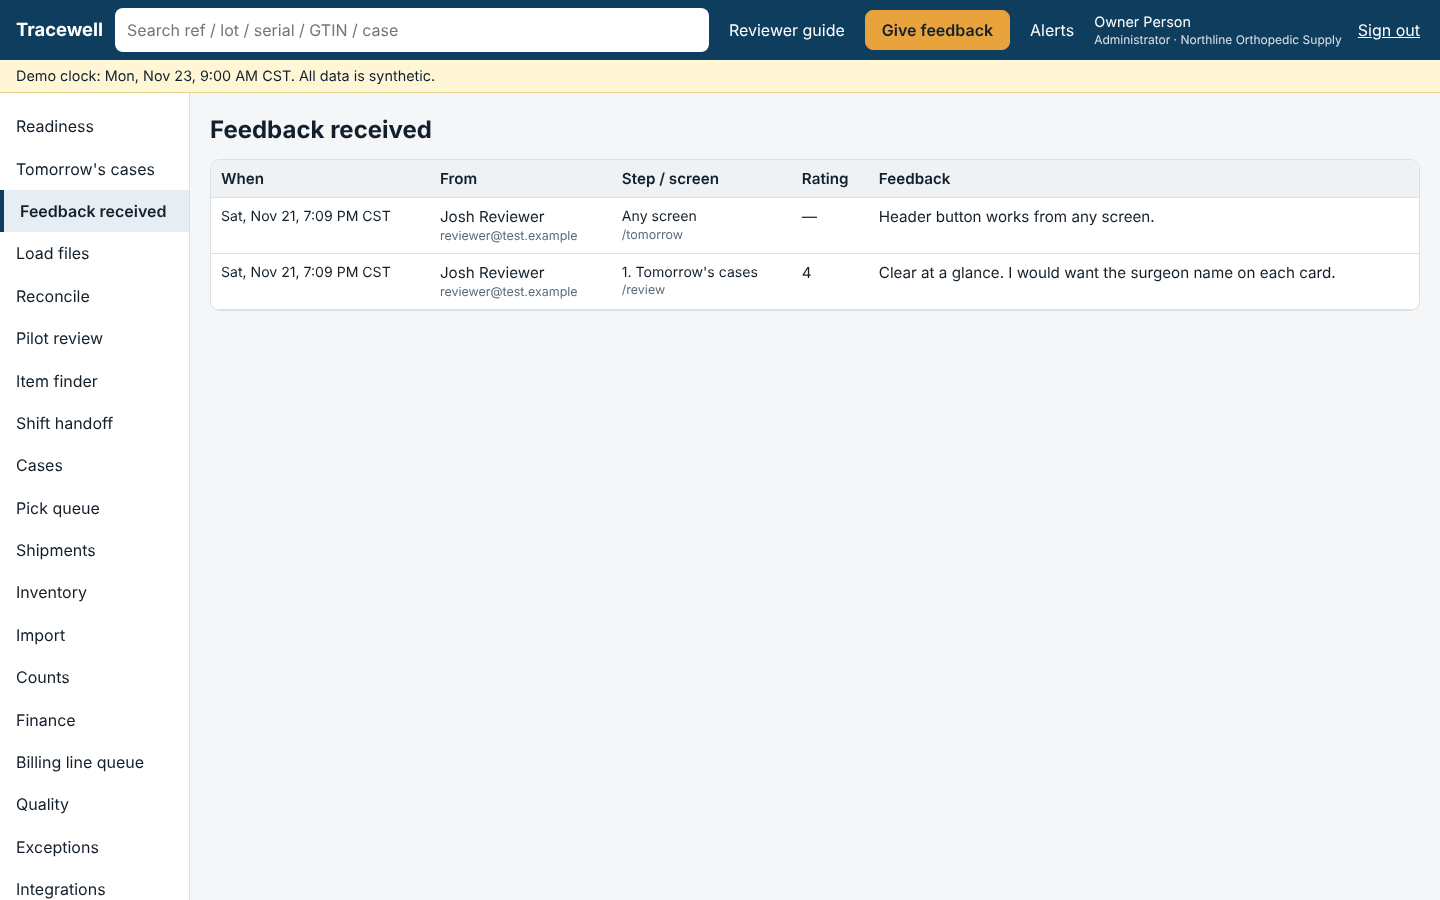
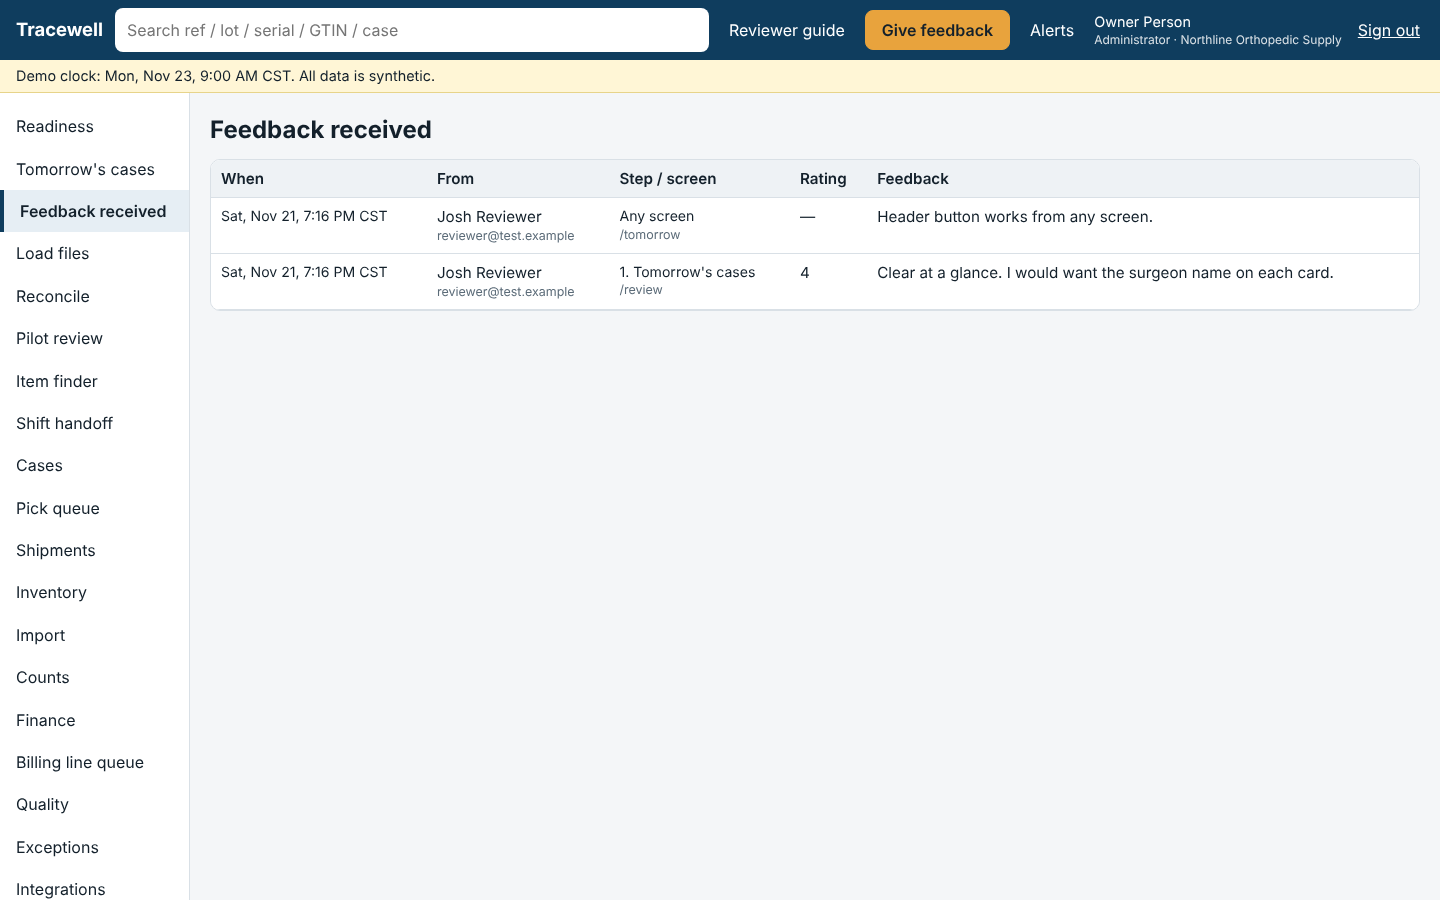
Review hosting: Render blueprint, username sign-in, feedback stored in the database
Claude-Session: https://claude.ai/code/session_01Axjjo4ZYpwGvBPpNfVL9QP

diff --git a/src/server/pilot/review.ts b/src/server/pilot/review.ts
@@ -1,25 +1,22 @@
 /**
  * Hosted review mode (REVIEW_MODE=true): one synthetic demo account that an outside reviewer can sign in to,
- * restart to a clean 9:00 AM state, and leave feedback on. Feedback is appended to a file outside the
- * database so that restarting the demo never erases it.
+ * restart to a clean 9:00 AM state, and leave feedback on. Feedback is kept in a separate database
+ * schema so that restarting the demo never erases it.
  */
-import fs from 'node:fs';
-import path from 'node:path';
 import { AppError, q } from '../db.js';
 import type { Ctx } from '../perms.js';
 import { seedDemoAccount } from './demo-account.js';
 
 export const reviewMode = process.env.REVIEW_MODE === 'true';
-const FILE = process.env.FEEDBACK_FILE ?? path.resolve('data/feedback.jsonl');
 
 function person(prefix: string) {
-  const email = process.env[`${prefix}_EMAIL`], password = process.env[`${prefix}_PASSWORD`];
+  const email = process.env[`${prefix}_LOGIN`] ?? process.env[`${prefix}_EMAIL`], password = process.env[`${prefix}_PASSWORD`];
   if (!email || !password) return null;
   if (password.length < 12) throw new Error(`${prefix}_PASSWORD must be at least 12 characters`);
   return { email, name: process.env[`${prefix}_NAME`] ?? email.split('@')[0], password };
 }
 /** Only the account owner reads what reviewers sent. */
-export const canReadFeedback = (email: string) => reviewMode && !!process.env.OWNER_EMAIL && email.toLowerCase() === process.env.OWNER_EMAIL.toLowerCase();
+export const canReadFeedback = (email: string) => reviewMode && !!(process.env.OWNER_LOGIN ?? process.env.OWNER_EMAIL) && email.toLowerCase() === (process.env.OWNER_LOGIN ?? process.env.OWNER_EMAIL)!.toLowerCase();
 let busy = false;
 export async function restartDemo() {
   if (!reviewMode) throw new AppError(404, 'not_found', 'Not available');
@@ -35,17 +32,24 @@ export async function ensureDemo() {
   if (empty) { const r = await restartDemo(); console.log(`[review] demo account built for ${r.day}`); }
 }
 
-export function addFeedback(ctx: Ctx, email: string, input: { text?: string; rating?: number | string | null; step?: string; page?: string }) {
+// Feedback lives in its own schema, which a demo restart (drop of schema "public") never touches.
+let ready = false;
+async function table() {
+  if (ready) return;
+  await q(`create schema if not exists review_keep`);
+  await q(`create table if not exists review_keep.feedback (id bigserial primary key, at timestamptz not null default now(), by_name text not null, login text not null, role text not null, step text not null, page text not null, rating int, body text not null)`);
+  ready = true;
+}
+export async function addFeedback(ctx: Ctx, login: string, input: { text?: string; rating?: number | string | null; step?: string; page?: string }) {
   const text = String(input.text ?? '').trim();
   if (text.length < 2) throw new AppError(400, 'empty', 'Write a sentence or two before sending');
   const rating = input.rating === '' || input.rating == null ? null : Number(input.rating);
   if (rating != null && !(Number.isInteger(rating) && rating >= 1 && rating <= 5)) throw new AppError(400, 'bad_rating', 'Rating is 1 to 5');
-  const row = { at: new Date().toISOString(), by: ctx.displayName, email, role: ctx.role, step: String(input.step ?? '').slice(0, 120), page: String(input.page ?? '').slice(0, 200), rating, text: text.slice(0, 4000) };
-  fs.mkdirSync(path.dirname(FILE), { recursive: true });
-  fs.appendFileSync(FILE, JSON.stringify(row) + '\n');
-  return { ok: true, at: row.at };
+  await table();
+  const [r] = await q(`insert into review_keep.feedback(by_name, login, role, step, page, rating, body) values ($1,$2,$3,$4,$5,$6,$7) returning at`, [ctx.displayName, login, ctx.role, String(input.step ?? '').slice(0, 120), String(input.page ?? '').slice(0, 200), rating, text.slice(0, 4000)]);
+  return { ok: true, at: r.at };
 }
-export function listFeedback() {
-  if (!fs.existsSync(FILE)) return [];
-  return fs.readFileSync(FILE, 'utf8').split('\n').filter(Boolean).map((l) => { try { return JSON.parse(l); } catch { return null; } }).filter(Boolean).reverse();
+export async function listFeedback() {
+  await table();
+  return q(`select at, by_name as by, login as email, role, step, page, rating, body as text from review_keep.feedback order by at desc limit 500`);
 }

diff --git a/src/server/app.ts b/src/server/app.ts
@@ -199,7 +199,7 @@ export async function buildApp() {
   r('POST', '/api/handoff-notes/:id/approve', 'closeout.record', async (db, ctx, req) => notes.approveNote(db, ctx, P(req).id));
 
   // ---------------- Hosted review: feedback and demo restart ----------------
-  app.post('/api/feedback', async (req) => { const ctx = await auth(req); const [u] = await q(`select email from users where id=$1`, [ctx.userId]); return review.addFeedback(ctx, u.email, B(req)); });
+  app.post('/api/feedback', async (req) => { const ctx = await auth(req); const [u] = await q(`select email from users where id=$1`, [ctx.userId]); return await review.addFeedback(ctx, u.email, B(req)); });
   app.get('/api/feedback', async (req) => { const ctx = await auth(req); const [u] = await q(`select email from users where id=$1`, [ctx.userId]); if (!review.canReadFeedback(u.email)) throw new AppError(403, 'forbidden', 'Not permitted'); return review.listFeedback(); });
   // Rebuilds the whole synthetic demo account (review deployments only). Runs outside any request transaction.
   app.post('/api/review/restart', async (req) => { const ctx = await auth(req); if (ctx.role !== 'admin') throw new AppError(403, 'forbidden', 'Not permitted'); const r = await review.restartDemo(); return { ok: true, day: r.day }; });

diff --git a/src/web/pages/Login.tsx b/src/web/pages/Login.tsx
@@ -20,7 +20,7 @@ export function Login({ onLogin }: { onLogin: () => void }) {
       <p className="muted">Orthopedic case readiness, inventory and case-to-cash pilot. All organizations, people, devices, prices and cases are synthetic.</p>
       <form className="card" onSubmit={submit} aria-label="Sign in">
         <div className="row">
-          <label className="field">Email<input type="email" autoComplete="username" value={email} onChange={(e) => setEmail(e.target.value)} required /></label>
+          <label className="field">Email or username<input type="text" autoCapitalize="none" autoComplete="username" value={email} onChange={(e) => setEmail(e.target.value)} required /></label>
           <label className="field">Password<input type="password" autoComplete="current-password" value={password} onChange={(e) => setPassword(e.target.value)} required /></label>
           <button type="submit" style={{ alignSelf: 'flex-end' }}>Sign in</button>
         </div>

diff --git a/docs/review/DEPLOY.md b/docs/review/DEPLOY.md
@@ -1,5 +1,23 @@
 # Hosting Tracewell for an outside reviewer
 
+## Recommended: GitHub + Render
+
+Code lives in a private GitHub repository; Render builds and runs it and gives it an HTTPS address. Every
+change pushed to GitHub goes live automatically, which is what makes later fixes and features quick.
+
+1. **GitHub:** create a free account, then a new **private** repository named `tracewell` (leave it empty).
+   Connect GitHub to Claude at https://claude.ai/connect-github and install the Claude GitHub App on that repository.
+2. **Push the code:** tell Claude the repository name (for example `yourname/tracewell`); it pushes this code there.
+3. **Render:** create an account at render.com, choose **New > Blueprint**, and pick the repository. Render reads
+   `render.yaml` and asks for three values: your display name, your password, and the reviewer's password (12+ characters each).
+4. Wait for the first deploy, open the address Render shows (`https://tracewell-review-....onrender.com`), sign in
+   as `ekja5`, and walk the Reviewer guide once before inviting anyone.
+
+`render.yaml` was written without access to Render's current documentation; if the import reports a problem, send it back.
+Use paid instance types for the web service and database: free ones go to sleep and make a reviewer wait.
+
+## Alternative: your own server with Docker
+
 This runs one synthetic demo account ("Northline Orthopedic Supply") on a server you control, with HTTPS,
 a sign-in for the reviewer and one for you. No real data. The assistant runs in demo mode.
 
@@ -14,8 +32,8 @@ a sign-in for the reviewer and one for you. No real data. The assistant runs in 
 2. `cd deploy && cp env.example .env` and fill in every value:
    - `SITE_DOMAIN`: the subdomain above.
    - Three random secrets: `POSTGRES_ADMIN_PASSWORD`, `APP_DB_PASSWORD`, `SESSION_SECRET` (`openssl rand -base64 36`).
-   - `REVIEWER_EMAIL`, `REVIEWER_NAME`, `REVIEWER_PASSWORD` (12+ characters).
-   - `OWNER_EMAIL`, `OWNER_NAME`, `OWNER_PASSWORD` for yourself.
+   - `REVIEWER_LOGIN`, `REVIEWER_NAME`, `REVIEWER_PASSWORD` (12+ characters).
+   - `OWNER_LOGIN` (an email or a username), `OWNER_NAME`, `OWNER_PASSWORD` for yourself.
 3. `docker compose up -d --build`. The first start builds the demo account (about 20 seconds).
 4. Open `https://<SITE_DOMAIN>`, sign in as the owner, and walk the Reviewer guide once yourself.
 5. Only then send the reviewer the link, and send the password by a different channel (text or phone).
@@ -24,7 +42,7 @@ a sign-in for the reviewer and one for you. No real data. The assistant runs in 
 
 | Task | How |
 |---|---|
-| Read feedback | Sign in as the owner → **Feedback received**. Raw file: `docker compose exec app cat /data/feedback.jsonl` |
+| Read feedback | Sign in as the owner → **Feedback received**. It is stored in the database (schema `review_keep`) |
 | Reset the demo to 9:00 AM | **Reviewer guide → Restart the demo** (either sign-in). Feedback is kept |
 | Change a password | Edit `.env`, `docker compose up -d`, then restart the demo once |
 | Turn it off | `docker compose down` (add `-v` to delete data and feedback) |

diff --git a/docs/review/EMAIL_TO_JOSH.md b/docs/review/EMAIL_TO_JOSH.md
@@ -14,7 +14,7 @@ than a polite one.
 **To try it yourself (about 15 minutes):**
 
 1. Go to **https://[YOUR-REVIEW-ADDRESS]**
-2. Sign in with your email, **jjsirios@gmail.com**. I will text you the password separately.
+2. In the "Email or username" box enter **jjsirios@gmail.com**. I will text you the password separately.
 3. You land on the **Reviewer guide**. Click **Restart the demo** first; it resets everything to 9:00 AM and asks you to sign in once more.
 4. Follow the six steps on that page. Each step tells you what to click and has a box for your reaction. Type a sentence or two and press **Send feedback**.
 5. On any other screen, the orange **Give feedback** button at the top does the same thing.
